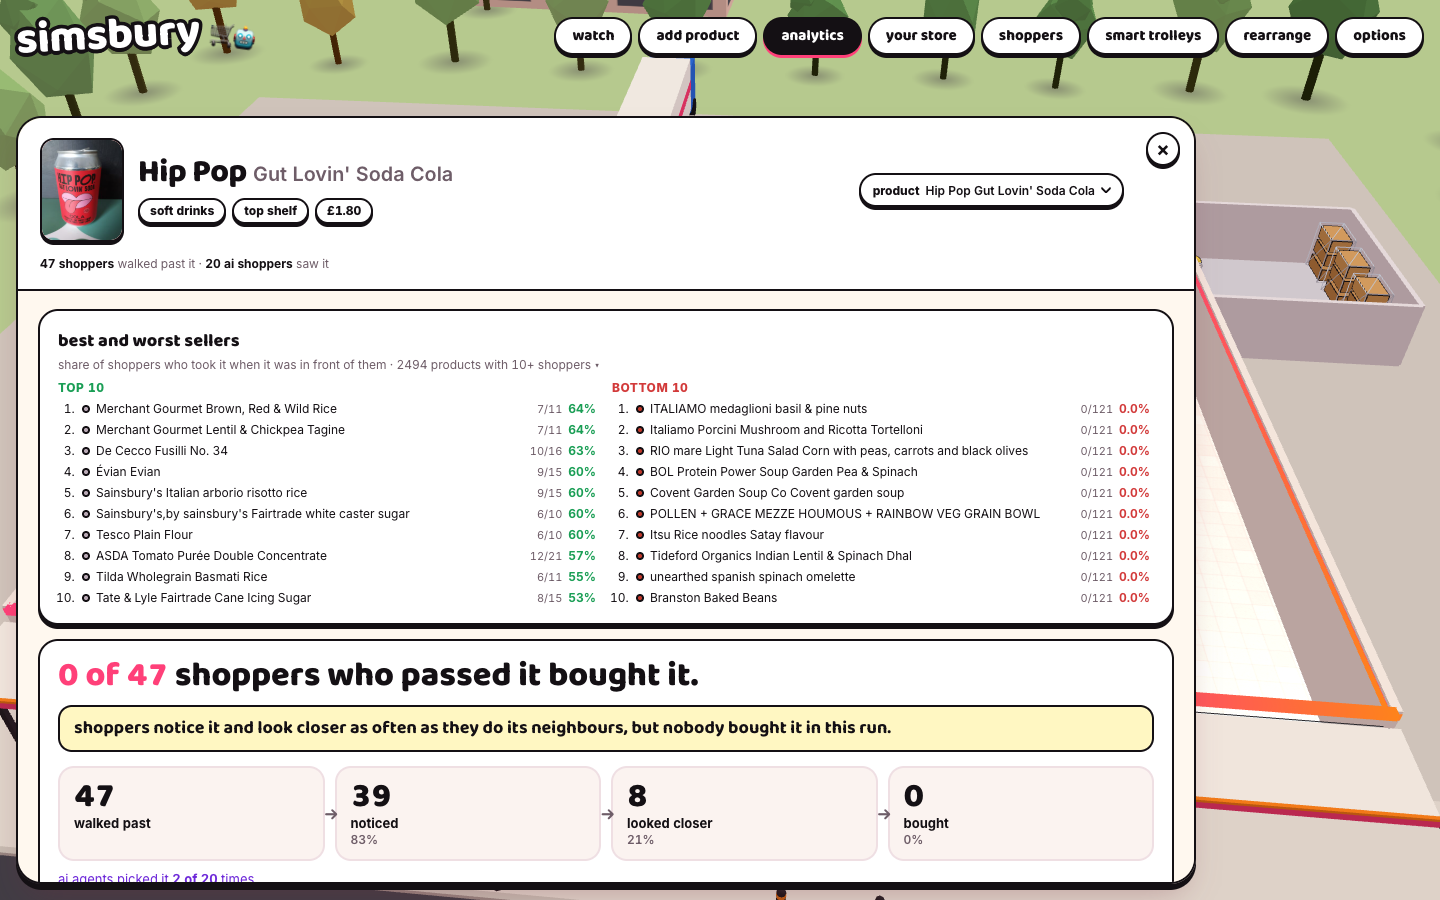
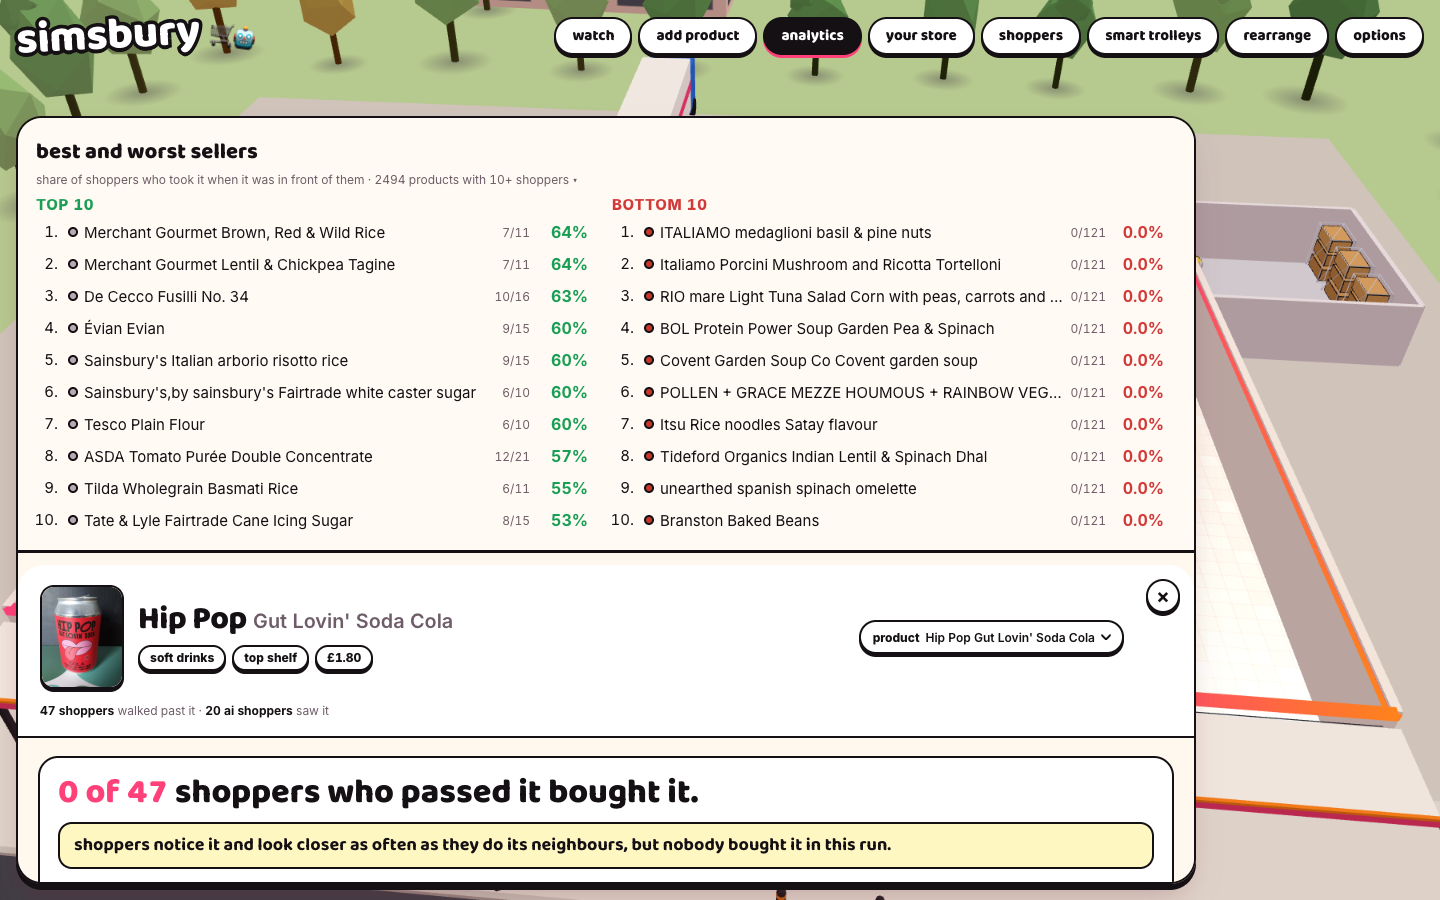
Analytics: best/worst sellers big at the top; plane crash lands right beside the store
Claude-Session: https://claude.ai/code/session_01Qo2myR8x2ZVjFcdCtNs1aY

Changed region(s): [[0.0, 0.1556, 0.8438, 0.9956], [0.9062, 0.2489, 0.9375, 0.3111], [0.7812, 0.1556, 0.8125, 0.1867]]

diff --git a/web/src/scene/world/PlaneCrash.tsx b/web/src/scene/world/PlaneCrash.tsx
@@ -27,6 +27,8 @@ export interface CrashScatter { trees: Inst[]; lamps: Inst[]; houses: Inst[]; bl
 const FIRST_MIN = 120, FIRST_RAND = 120;        // assumption: visual (first + repeat delay, s; UFO is 45-90)
 const V = 22;                                    // assumption: visual (approach ground speed, m/s)
 const T = { smoke: 1.5, td: 15, rest: 19.5, go: 21, bail: [8.2, 8.9, 9.6], land: [23, 24.2, 25.4] }; // assumption: visual
+/** wreck distance from the store's right-hand outer edge, metres (assumption: visual, beside the wall) */
+const BESIDE = 14;
 const CRUISE = 46, SLOPE = 0.16;                 // assumption: visual (start altitude m, glide slope ~9 deg)
 const L_APPROACH = V * T.td;                     // horizontal distance flown before touchdown
 const SKID = (V * (T.rest - T.td)) / 2;          // decelerating skid length
@@ -116,7 +118,7 @@ function findSite(W: WorldPlan, sc: CrashScatter): Site {
   };
   sc.blocks.forEach((b) => dec(b, (x, z, sx, sy, sz) => ({ x, z, r: Math.hypot(sx, sz) / 2, top: sy })));
   sc.houses.forEach((b) => dec(b, (x, z, sx, sy, sz) => ({ x, z, r: Math.hypot(sx, sz) / 2, top: sy + 2.4 })));
-  sc.trees.forEach((b) => dec(b, (x, z, sx, sy) => ({ x, z, r: 1.9 * sx, top: 5.6 * sy })));
+  // trees are left out on purpose: a cartoon belly-landing may skid past them, so the site can sit right beside the store
   sc.lamps.forEach((b) => dec(b, (x, z) => ({ x, z, r: 1.4, top: 7.2 })));
   const farEdge = zRoad + roadW / 2 + 3;
   const rects: R[] = [
@@ -133,7 +135,7 @@ function findSite(W: WorldPlan, sc: CrashScatter): Site {
     const j0 = Math.floor((c.z - c.r - PAD) / CELL), j1 = Math.floor((c.z + c.r + PAD) / CELL);
     for (let i = i0; i <= i1; i++) for (let j = j0; j <= j1; j++) { const k = key(i, j); let l = grid.get(k); if (!l) grid.set(k, (l = [])); l.push(c); }
   }
-  const CLEAR = 4;
+  const CLEAR = 3;
   const hit = (x: number, z: number, alt: number, margin: number, veh = false) => {
     const l = grid.get(key(Math.floor(x / CELL), Math.floor(z / CELL)));
     if (l) for (const c of l) { const dx = x - c.x, dz = z - c.z, rr = c.r + margin; if (dx * dx + dz * dz < rr * rr && alt < c.top + CLEAR) return true; }
@@ -149,8 +151,8 @@ function findSite(W: WorldPlan, sc: CrashScatter): Site {
     return true;
   };
   const flightClear = (td: THREE.Vector2, d: THREE.Vector2) => {
-    for (let s = 0; s <= SKID + 12; s += 3) if (hit(td.x + d.x * s, td.y + d.y * s, 0, 13)) return false;            // skid strip (wingspan + margin)
-    for (let s = 0; s <= L_APPROACH; s += 4) if (hit(td.x - d.x * s, td.y - d.y * s, Math.min(CRUISE, s * SLOPE), 18)) return false; // glide path + chutes
+    for (let s = 0; s <= SKID + 12; s += 3) if (hit(td.x + d.x * s, td.y + d.y * s, 0, 9)) return false;            // skid strip (wingspan + margin)
+    for (let s = 0; s <= L_APPROACH; s += 4) if (hit(td.x - d.x * s, td.y - d.y * s, Math.min(CRUISE, s * SLOPE), 11)) return false; // glide path + chutes
     return true;
   };
   const V2 = (x: number, z: number) => new THREE.Vector2(x, z);
@@ -166,9 +168,9 @@ function findSite(W: WorldPlan, sc: CrashScatter): Site {
   // 1) open grass to the right of the car park / store (in view of the overview camera)
   const G = V2(xR + 3, lanes[2]);
   const cands: { rest: THREE.Vector2; d: THREE.Vector2; score: number }[] = [];
-  for (let x = xR + 45; x <= xR + 230; x += 6) for (let z = B.zMin - 150; z <= zC - 8; z += 6) for (let k = 0; k < 16; k++) {
+  for (let x = xR + 12; x <= xR + 230; x += 4) for (let z = B.zMin - 150; z <= zC - 8; z += 6) for (let k = 0; k < 16; k++) {
     const a = (k / 16) * Math.PI * 2, d = V2(Math.cos(a), Math.sin(a));
-    cands.push({ rest: V2(x, z), d, score: Math.hypot(x - (xR + 45), z - (W.zA + 10)) + 20 * Math.abs(d.y) });
+    cands.push({ rest: V2(x, z), d, score: Math.hypot(x - (xR + 12), z - (W.zA + 10)) + 20 * Math.abs(d.y) });
   }
   cands.sort((a, b) => a.score - b.score);
   // the engine's drive over the grass: BFS on a 3 m grid from the car park edge, then string-pulled
@@ -205,6 +207,17 @@ function findSite(W: WorldPlan, sc: CrashScatter): Site {
     for (let i = 0; i < chain.length - 1; i++) if (!segFar(chain[i], chain[i + 1], rest)) return null;
     return out.slice(0, -1); // waypoints between G and E
   };
+  // 0) right beside the store: belly-land along its right-hand side wall, sliding from the back towards the car park,
+  //    stopping level with the middle of the store; the engine comes straight across from the car park
+  if (BESIDE > 0) {
+    const d = V2(0, 1);
+    const rest = V2(xR + BESIDE, (B.zMin + zF) / 2);
+    const td = rest.clone().addScaledVector(d, -SKID);
+    const f = finish(td, d, G);
+    const arrive = [V2(xR + 60, W.zFar), V2(xR - 4, W.zFar), V2(xR - 4, lanes[2]), G, f.E];
+    const leave = [...arrive.slice(3)].reverse().concat([V2(xR - 4, zC - 0.5), V2(xR - 4, W.zNear), V2(xR + 60, W.zNear)]);
+    return { td, rest: f.rest, dir: d, arrive, leave, land: f.land };
+  }
   for (const c of cands) {
     const td = c.rest.clone().addScaledVector(c.d, -SKID);
     if (!flightClear(td, c.d)) continue;

diff --git a/web/src/ui/InsightsPanel.tsx b/web/src/ui/InsightsPanel.tsx
@@ -55,6 +55,7 @@ export function InsightsPanel(props: InsightsProps) {
 
   return (
     <aside className="card insights" aria-label={`product analytics for ${p.name}`}>
+      <RankSection run={run} products={products} current={p.code} onPickProduct={onPickProduct} />
       <div className="ins-top">
         <button className="x" onClick={onClose} aria-label="close product analytics">×</button>
         <Head product={p} slot={slot} rowName={slot ? cfg.row_names[rowOf(slot)] : undefined} options={shelfOptions(planogram, products)} products={products} onPickProduct={onPickProduct} />
@@ -64,7 +65,6 @@ export function InsightsPanel(props: InsightsProps) {
         <p className="notice">no shopper and no ai agent was shown this product in <code>{run.run_id}</code>, so there is nothing to count. pick another run in the run picker, or re-run the store with this product on the shelf.</p>
       ) : (
         <div className="ins-board">
-          <RankSection run={run} products={products} current={p.code} onPickProduct={onPickProduct} />
           <Story own={own} ai={aiOwn} aiLoaded={sample.ai_loaded} d={diagnosis} unit={slot ? slot.split('-r')[0] : undefined}
             best={best} rowNames={cfg.row_names} topReject={diagnosis.top_reject} onRearrange={props.onRearrange}
             onPlacement={() => placementRef.current?.scrollIntoView({ behavior: 'smooth', block: 'start' })} />

diff --git a/web/src/ui/insights.css b/web/src/ui/insights.css
@@ -215,3 +215,15 @@
 .rk-name { flex: 1; min-width: 0; overflow: hidden; text-overflow: ellipsis; white-space: nowrap; }
 .rk-up .rk-rate { color: #1a9e55; } .rk-down .rk-rate { color: #d23a3a; }
 .rk-n { font-size: 11px; flex: none; }
+/* best / worst sellers: top of analytics, big */
+.rk-top { margin: 0 0 12px; padding: 16px 18px; border-bottom: 3px solid var(--ink, #1c1418); background: #fffaf3; }
+.rk-top .rk-head h3 { font-size: 22px; font-weight: 900; }
+.rk-top .rk-h { font-size: 15px; }
+.rk-top .rk-list { font-size: 15px; gap: 4px; }
+.rk-top .rk-row { padding: 4px 6px; }
+.rk-top .rk-rate { font-size: 16px; min-width: 52px; text-align: right; }
+.rk-top .rk-n { font-size: 12px; }
+.rk-top .rk-row .dot { width: 10px; height: 10px; }
+.rk-cols > div { min-width: 0; }
+.rk-top { overflow: hidden; }
+.rk-top .rk-list { padding-left: 26px; padding-right: 6px; }

diff --git a/web/src/ui/RankSection.tsx b/web/src/ui/RankSection.tsx
@@ -52,7 +52,7 @@ export function RankSection({ run, products, current, onPickProduct }: { run: Ru
     </ol>
   );
   return (
-    <section className="tile t-12 rk">
+    <section className="rk rk-top">
       <button className="rk-head" onClick={() => setOpen(!open)} aria-expanded={open}>
         <h3>best and worst sellers</h3>
         <span className="muted small">share of shoppers who took it when it was in front of them · {rows.length} products with {MIN_SHOWN}+ shoppers {open ? '▾' : '▸'}</span>
